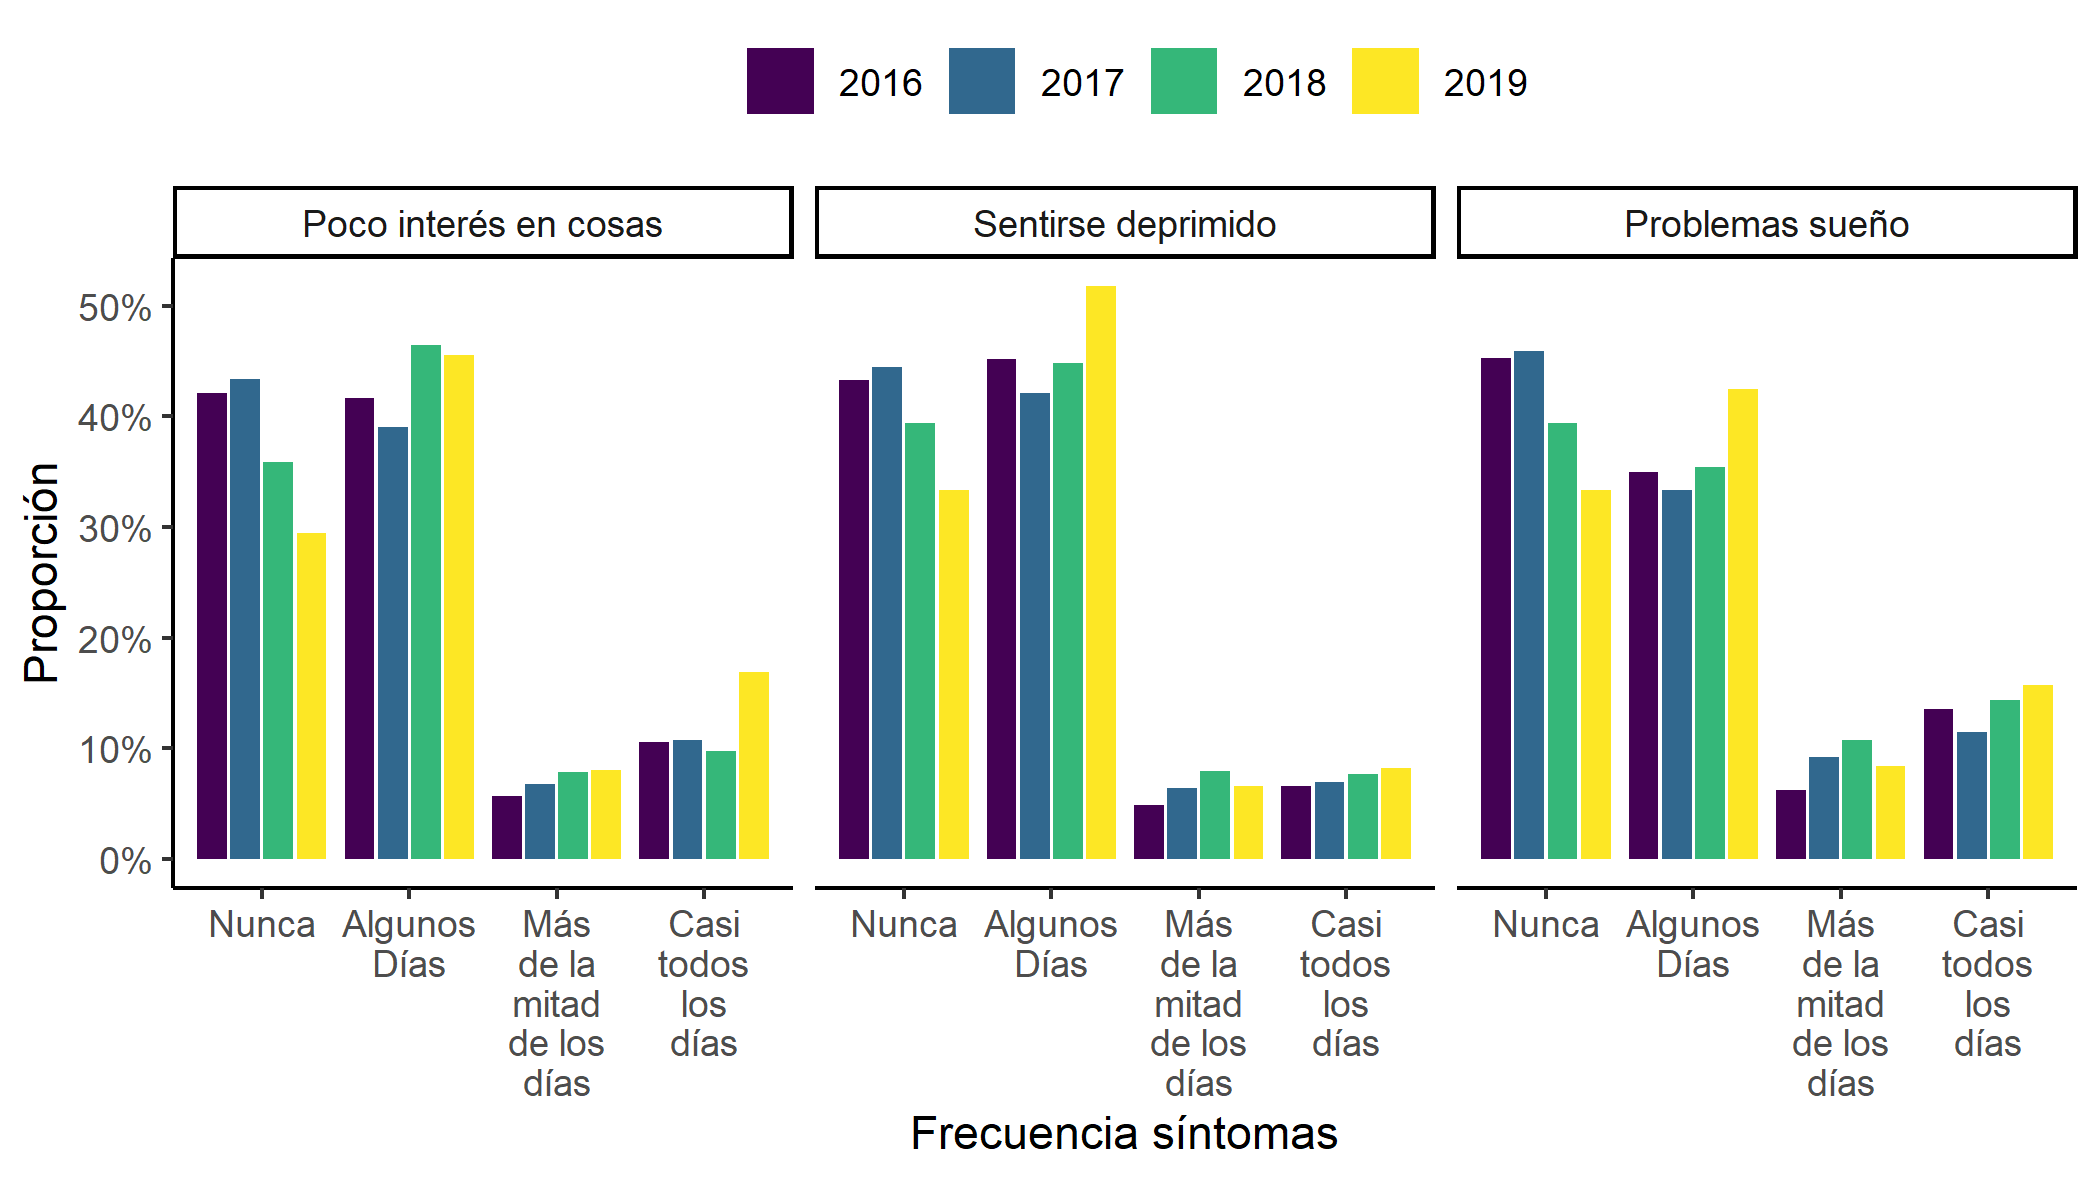
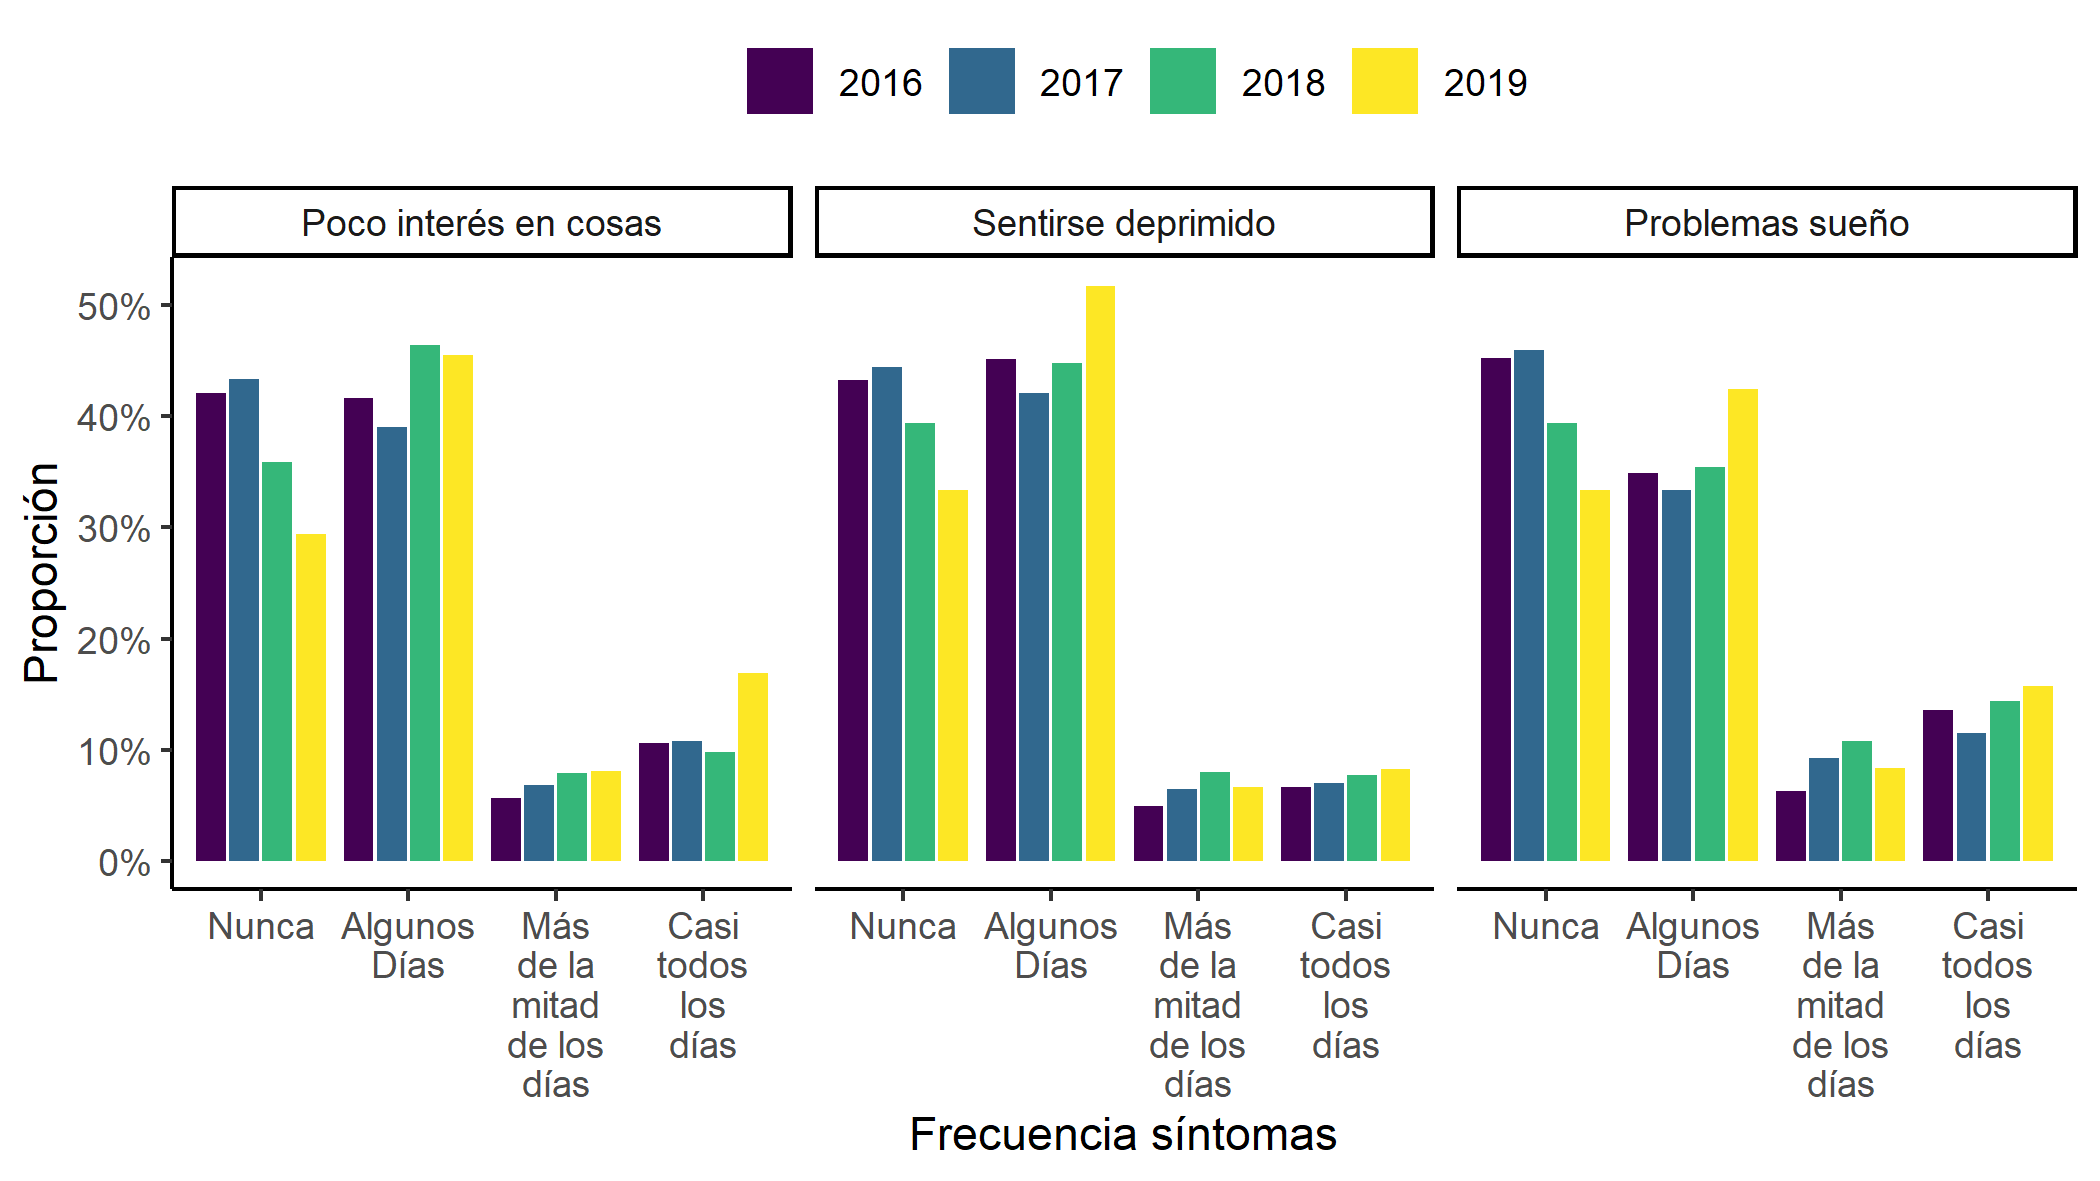
interacciones II

diff --git a/presentacion_pre_alas.html b/presentacion_pre_alas.html
@@ -86,7 +86,7 @@ class: center, middle, inverse, title-slide
 
 ### Sobre los ítems de la escala PHQ-9 I
 
-&lt;img src="presentacion_pre_alas_files/figure-html/unnamed-chunk-1-1.png" width="95%" style="display: block; margin: auto;" /&gt;
+&lt;img src="presentacion_pre_alas_files/figure-html/unnamed-chunk-18-1.png" width="95%" style="display: block; margin: auto;" /&gt;
 
 Los tres primeros items son (1) *Poco interés o placer en hacer las cosas*, (2) *Se ha sentido decaído(a), deprimido(a),o sin esperanzas*, y (3) *Dificultad para dormir o permanecer dormido(a), o ha dormido demasiado*.
 
@@ -94,7 +94,7 @@ Los tres primeros items son (1) *Poco interés o placer en hacer las cosas*, (2)
 
 ### Sobre los ítems de la escala PHQ-9 II
 
-&lt;img src="presentacion_pre_alas_files/figure-html/unnamed-chunk-2-1.png" width="95%" style="display: block; margin: auto;" /&gt;
+&lt;img src="presentacion_pre_alas_files/figure-html/unnamed-chunk-19-1.png" width="95%" style="display: block; margin: auto;" /&gt;
 
 Los items del cuarto al sexto son (4) *Se ha sentido cansado(a) o con poca energía*, (5) *Con poco apetito o ha comido en exceso*, y (6) *Se ha sentido mal con usted mismo(a)- o que es un fracaso o que ha quedado mal con usted mismo(a) o con su familia*.
 
@@ -102,7 +102,7 @@ Los items del cuarto al sexto son (4) *Se ha sentido cansado(a) o con poca energ
 
 ### Sobre los ítems de la escala PHQ-9 III
 
-&lt;img src="presentacion_pre_alas_files/figure-html/unnamed-chunk-3-1.png" width="95%" style="display: block; margin: auto;" /&gt;
+&lt;img src="presentacion_pre_alas_files/figure-html/unnamed-chunk-20-1.png" width="95%" style="display: block; margin: auto;" /&gt;
 
 Los últimos tres items de la escala son (7) *Ha tenido dificultad para concentrarse en cosas tales como leer el periódico o ver televisión* y (8) *¿Se ha estado moviendo o hablando tan lento que otras personas podrían notarlo?, o por el contrario- ha estado tan inquieto(a) o agitado(a), que se ha estado moviendo mucho más de lo normal* y finalmente (9) *Ha pensado que estaría mejor muerto(a) o se le ha ocurrido lastimarse de alguna manera*. 
 
@@ -110,7 +110,7 @@ Los últimos tres items de la escala son (7) *Ha tenido dificultad para concentr
 
 # Puntajes PHQ-9 globales
 
-&lt;img src="presentacion_pre_alas_files/figure-html/unnamed-chunk-4-1.png" width="95%" style="display: block; margin: auto;" /&gt;
+&lt;img src="presentacion_pre_alas_files/figure-html/unnamed-chunk-21-1.png" width="95%" style="display: block; margin: auto;" /&gt;
 
 ---
 
@@ -129,7 +129,7 @@ Nos centraremos en tres aspectos principales:
 
 ### Según Género del entrevistado
 
-&lt;img src="presentacion_pre_alas_files/figure-html/unnamed-chunk-5-1.png" width="95%" style="display: block; margin: auto;" /&gt;
+&lt;img src="presentacion_pre_alas_files/figure-html/unnamed-chunk-22-1.png" width="95%" style="display: block; margin: auto;" /&gt;
 
 
 
@@ -137,13 +137,13 @@ Nos centraremos en tres aspectos principales:
 
 ### Según actividad ocupacional del entrevistado
 
-&lt;img src="presentacion_pre_alas_files/figure-html/unnamed-chunk-6-1.png" width="95%" style="display: block; margin: auto;" /&gt;
+&lt;img src="presentacion_pre_alas_files/figure-html/unnamed-chunk-23-1.png" width="95%" style="display: block; margin: auto;" /&gt;
 
 ---
 
 ### Interacción con género
 
-&lt;img src="presentacion_pre_alas_files/figure-html/unnamed-chunk-7-1.png" width="95%" style="display: block; margin: auto;" /&gt;
+&lt;img src="presentacion_pre_alas_files/figure-html/unnamed-chunk-24-1.png" width="95%" style="display: block; margin: auto;" /&gt;
 
 Acá se muestra la proporción de personas con puntajes mayores o iguales a 10 (Referencia, mejor sensitividad para detectar )
 
@@ -151,32 +151,32 @@ Acá se muestra la proporción de personas con puntajes mayores o iguales a 10 (
 
 ### Según nivel educacional
 
-&lt;img src="presentacion_pre_alas_files/figure-html/unnamed-chunk-8-1.png" width="95%" style="display: block; margin: auto;" /&gt;
+&lt;img src="presentacion_pre_alas_files/figure-html/unnamed-chunk-25-1.png" width="95%" style="display: block; margin: auto;" /&gt;
 
 
 ---
 
 ### Según tramo etario del entrevistado
 
-&lt;img src="presentacion_pre_alas_files/figure-html/unnamed-chunk-9-1.png" width="95%" style="display: block; margin: auto;" /&gt;
+&lt;img src="presentacion_pre_alas_files/figure-html/unnamed-chunk-26-1.png" width="95%" style="display: block; margin: auto;" /&gt;
 
 ---
 
 ### Según Tramo IMC del entrevistado
 
-&lt;img src="presentacion_pre_alas_files/figure-html/unnamed-chunk-10-1.png" width="95%" style="display: block; margin: auto;" /&gt;
+&lt;img src="presentacion_pre_alas_files/figure-html/unnamed-chunk-27-1.png" width="95%" style="display: block; margin: auto;" /&gt;
 
 ---
 
 ### Según frecuencia de actividad física del entrevistado
 
-&lt;img src="presentacion_pre_alas_files/figure-html/unnamed-chunk-11-1.png" width="95%" style="display: block; margin: auto;" /&gt;
+&lt;img src="presentacion_pre_alas_files/figure-html/unnamed-chunk-28-1.png" width="95%" style="display: block; margin: auto;" /&gt;
 
 ---
 
 ### Según frecuencia para hablar de problemas con familiares o amigos
 
-&lt;img src="presentacion_pre_alas_files/figure-html/unnamed-chunk-12-1.png" width="95%" style="display: block; margin: auto;" /&gt;
+&lt;img src="presentacion_pre_alas_files/figure-html/unnamed-chunk-29-1.png" width="95%" style="display: block; margin: auto;" /&gt;
 
 ---
 
@@ -188,13 +188,22 @@ Acá se muestra la proporción de personas con puntajes mayores o iguales a 10 (
 * Regresión Multinomial Ordinal (Sobre `\(4\)` categorías de severidad)
 
 ---
-# Algunos Resultados
+# Regresión Logística Mixta
 
 
 
 
 
 
+&lt;img src="presentacion_pre_alas_files/figure-html/unnamed-chunk-32-1.png" width="95%" style="display: block; margin: auto;" /&gt;
+
+---
+
+# Regresión Lineal Mixta
+
+
+
+&lt;img src="presentacion_pre_alas_files/figure-html/unnamed-chunk-34-1.png" width="95%" style="display: block; margin: auto;" /&gt;
 
 ---
 
